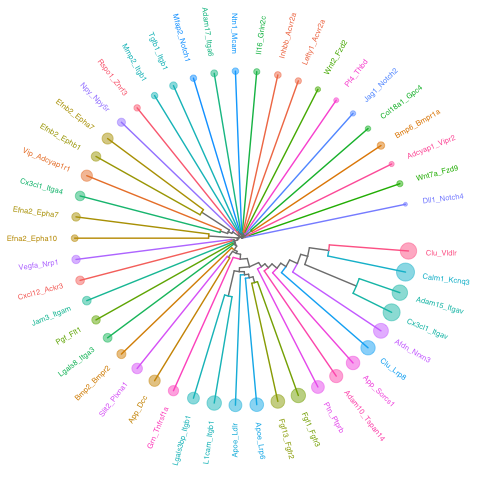
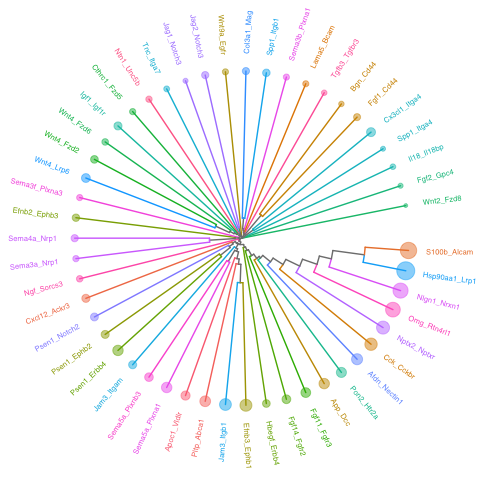
A few minor NAMESPACE issues resolved.

diff --git a/README.md b/README.md
@@ -30,19 +30,20 @@ This is a basic example which shows you a basic workflow of the package:
 ## Load necessary packages
 
 ``` r
-library(SpatialExperiment)
-library(scater)
-library(dplyr)
-library(tidyr)
-library(magrittr)
-library(purrr)
-library(ggplot2)
+# library(SpatialExperiment)
+# library(scater)
+# library(dplyr)
+# library(tidyr)
+# library(magrittr)
+# library(purrr)
+# library(ggplot2)
 library(patchwork)
 
+# Looks like ggraph might have some issue inmporting 'guide_edge_colourbar' 
 library(ggraph)
-library(tidygraph)
-library(RColorBrewer)
-
+# library(tidygraph)
+# library(RColorBrewer)
+# 
 library(ggtree)
 ```
 
@@ -74,20 +75,20 @@ LRdb_m <-
   get_LRdb_small("mouse")
 
 LRdb_m %>% 
-  arrange(ligand_gene_symbol, receptor_gene_symbol)
+  dplyr::arrange(ligand_gene_symbol, receptor_gene_symbol)
 #> # A tibble: 105 × 10
 #>    LR    ligand_gene_symbol receptor_gene_symbol ligand_gene_id receptor_gene_id
 #>    <chr> <chr>              <chr>                         <dbl>            <dbl>
-#>  1 Adam… Adam10             Tspan14                       11487            52588
-#>  2 Adam… Adam15             Itgav                         11490            16410
-#>  3 Adam… Adam17             Itga6                         11491            16403
-#>  4 Adcy… Adcyap1            Vipr2                         11516            22355
-#>  5 Adip… Adipoq             Adipor1                       11450            72674
-#>  6 Afdn… Afdn               Nrxn3                         17356            18191
-#>  7 Apob… Apob               Apobr                        238055           171504
-#>  8 Apob… Apob               Lsr                          238055            54135
-#>  9 Apoe… Apoe               Ldlr                          11816            16835
-#> 10 Apoe… Apoe               Lrp6                          11816            16974
+#>  1 Adam… Adam2              Itgb1                         11495            16412
+#>  2 Afdn… Afdn               Nectin1                       17356            58235
+#>  3 Agt_… Agt                Agtr1b                        11606            11608
+#>  4 Angp… Angpt2             Itgb1                         11601            16412
+#>  5 Angp… Angpt2             Tek                           11601            21687
+#>  6 Apoc… Apoc1              Vldlr                         11812            22359
+#>  7 Apoe… Apoe               Sdc1                          11816            20969
+#>  8 App_… App                Dcc                           11820            13176
+#>  9 App_… App                Lrp2                          11820            14725
+#> 10 Bgn_… Bgn                Cd44                          12111            12505
 #> # ℹ 95 more rows
 #> # ℹ 5 more variables: ligand_ensembl_protein_id <chr>,
 #> #   receptor_ensembl_protein_id <chr>, ligand_ensembl_gene_id <chr>,
@@ -107,7 +108,7 @@ spe_brain <-
 # spe_brain[["cell_id"]] <- colnames(spe_brain)
 
 # Log-Normalize
-spe_brain <- logNormCounts(spe_brain) 
+spe_brain <- scater::logNormCounts(spe_brain) 
 ```
 
 ## Cell cluster data
@@ -148,7 +149,7 @@ ccc_tbl <- compute_spatial_ccc(spe = spe_brain,
                                assay_name = "logcounts",
                                LRdb = LRdb_m)
 tictoc::toc()
-#> 7.039 sec elapsed
+#> 7.172 sec elapsed
 
 # future::plan(future::sequential)
 ```
@@ -156,20 +157,20 @@ tictoc::toc()
 ``` r
 ccc_tbl %>% 
   dplyr::arrange(desc(LRscore))
-#> # A tibble: 160,620 × 10
+#> # A tibble: 140,680 × 10
 #>    src          dst       d norm.d LR    ligand receptor LRscore weight WLRscore
 #>    <chr>        <chr> <dbl>  <dbl> <chr> <chr>  <chr>      <dbl>  <dbl>    <dbl>
-#>  1 GCGAGAGTTGC… GCGA…    0    0    Apoe… Apoe   Lrp6       0.874  1        0.874
-#>  2 GTTCATCGTTT… GCGA…  138    1.01 Apoe… Apoe   Lrp6       0.869  0.986    0.857
-#>  3 ACTTTACCCTC… GCGA…  138.   1.01 Apoe… Apoe   Lrp6       0.868  0.980    0.851
-#>  4 AGATGATGGAG… GCGA…  138.   1.01 Apoe… Apoe   Lrp6       0.867  0.980    0.849
-#>  5 GATATGGATTA… GATA…    0    0    Clu_… Clu    Lrp8       0.858  1        0.858
-#>  6 AGAAGTGATTC… AATG…  138    1.01 Calm… Calm1  Kcnq3      0.858  0.986    0.846
-#>  7 TTGCATGCTGA… GTGC…  138.   1.01 Calm… Calm1  Kcnq3      0.858  0.980    0.840
-#>  8 CCCAACATACG… GTGC…  138.   1.00 Calm… Calm1  Kcnq3      0.857  0.992    0.850
-#>  9 TAACTCCATGG… GACA…  137    1    Clu_… Clu    Vldlr      0.857  1        0.857
-#> 10 CGGTGCAGATA… GTGC…  138    1.01 Calm… Calm1  Kcnq3      0.857  0.986    0.845
-#> # ℹ 160,610 more rows
+#>  1 GACGTGTAGGG… CTAA…  138    1.01 Col3… Col3a1 Mag        0.866  0.986    0.853
+#>  2 GCAACAGCAGT… TCTT…  138.   1.01 Hsp9… Hsp90… Lrp1       0.859  0.980    0.842
+#>  3 GCCACAATTTA… TCGC…  138    1.01 Hsp9… Hsp90… Lrp1       0.856  0.986    0.844
+#>  4 TAGTGTCAGAA… GTTA…  138.   1.01 Hsp9… Hsp90… Lrp1       0.856  0.980    0.838
+#>  5 CAGTGTTAATC… CAGG…  137.   1.00 Hsp9… Hsp90… Lrp1       0.855  0.999    0.855
+#>  6 GCTGTATTACT… TCGC…  138.   1.00 Hsp9… Hsp90… Lrp1       0.854  0.992    0.847
+#>  7 TTGAGAGTACT… TCGC…  138.   1.01 Hsp9… Hsp90… Lrp1       0.854  0.980    0.837
+#>  8 GGGTATTCTAG… CAGA…  137    1    Hsp9… Hsp90… Lrp1       0.854  1        0.854
+#>  9 GAATGCCGAAA… GTTA…  138.   1.01 Hsp9… Hsp90… Lrp1       0.853  0.980    0.836
+#> 10 CACCGTATCCC… CACC…    0    0    Hsp9… Hsp90… Lrp1       0.853  1        0.853
+#> # ℹ 140,670 more rows
 ```
 
 ### Add cluster lables to CCC table.
@@ -186,51 +187,51 @@ ccc_tbl <-
 ``` r
 ccc_tbl_between_clusters <-
   ccc_tbl %>%
-  group_by(mclust_8.src, mclust_8.dst, LR) %>%
-  summarise(n = n(),
-            LRscore.sum = sum(LRscore),
-            WLRscore.sum = sum(WLRscore))
+  dplyr::group_by(mclust_8.src, mclust_8.dst, LR) %>%
+  dplyr::summarise(n = dplyr::n(),
+                   LRscore.sum = sum(LRscore),
+                   WLRscore.sum = sum(WLRscore))
 #> `summarise()` has grouped output by 'mclust_8.src', 'mclust_8.dst'. You can
 #> override using the `.groups` argument.
 
 ccc_tbl_between_clusters %>%
   dplyr::arrange(desc(n))
-#> # A tibble: 1,662 × 6
+#> # A tibble: 1,663 × 6
 #> # Groups:   mclust_8.src, mclust_8.dst [46]
-#>    mclust_8.src mclust_8.dst LR               n LRscore.sum WLRscore.sum
-#>    <fct>        <fct>        <chr>        <int>       <dbl>        <dbl>
-#>  1 3            3            Calm1_Kcnq3   2845       2183.        2159.
-#>  2 3            3            Fgf1_Fgfr3    2713       1786.        1766.
-#>  3 3            3            Clu_Vldlr     2489       1862.        1842.
-#>  4 3            3            Cx3cl1_Itgav  2470       1681.        1663.
-#>  5 3            3            L1cam_Itgb1   2262       1461.        1445.
-#>  6 3            3            Apoe_Ldlr     1953       1487.        1471.
-#>  7 3            3            Fgf13_Fgfr2   1908       1231.        1218.
-#>  8 3            3            Adam15_Itgav  1876       1164.        1151.
-#>  9 3            3            Afdn_Nrxn3    1820       1181.        1168.
-#> 10 2            2            Calm1_Kcnq3   1788       1424.        1408.
-#> # ℹ 1,652 more rows
+#>    mclust_8.src mclust_8.dst LR                n LRscore.sum WLRscore.sum
+#>    <fct>        <fct>        <chr>         <int>       <dbl>        <dbl>
+#>  1 3            3            Hsp90aa1_Lrp1  4494       3630.        3590.
+#>  2 3            3            S100b_Alcam    3535       2562.        2534.
+#>  3 3            3            Nlgn1_Nrxn1    2569       1780.        1761.
+#>  4 2            2            Hsp90aa1_Lrp1  2136       1728.        1708.
+#>  5 2            2            S100b_Alcam    1977       1449.        1432.
+#>  6 3            3            Omg_Rtn4rl1    1747       1123.        1111.
+#>  7 1            1            Hsp90aa1_Lrp1  1742       1411.        1396.
+#>  8 3            3            Efnb3_Ephb1    1662       1080.        1068.
+#>  9 3            3            Nptx2_Nptxr    1605       1057.        1045.
+#> 10 2            2            Nlgn1_Nrxn1    1555       1146.        1133.
+#> # ℹ 1,653 more rows
 ```
 
 ``` r
 ccc_tbl_between_clusters %>%
   dplyr::filter(mclust_8.dst != mclust_8.src) %>%
   dplyr::arrange(desc(n))
-#> # A tibble: 1,278 × 6
+#> # A tibble: 1,263 × 6
 #> # Groups:   mclust_8.src, mclust_8.dst [38]
-#>    mclust_8.src mclust_8.dst LR               n LRscore.sum WLRscore.sum
-#>    <fct>        <fct>        <chr>        <int>       <dbl>        <dbl>
-#>  1 3            5            Calm1_Kcnq3    259       203.         200. 
-#>  2 5            3            Calm1_Kcnq3    203       161.         159. 
-#>  3 3            5            Cx3cl1_Itgav   202       140.         138. 
-#>  4 3            5            Clu_Vldlr      181       138.         136. 
-#>  5 3            8            Fgf13_Fgfr2    159       113.         111. 
-#>  6 5            3            Afdn_Nrxn3     142        94.8         93.4
-#>  7 3            5            Apoe_Lrp6      141       107.         106. 
-#>  8 1            6            Calm1_Kcnq3    138       111.         110. 
-#>  9 3            8            Clu_Vldlr      132       103.         102. 
-#> 10 8            3            Calm1_Kcnq3    132       101.          99.6
-#> # ℹ 1,268 more rows
+#>    mclust_8.src mclust_8.dst LR                n LRscore.sum WLRscore.sum
+#>    <fct>        <fct>        <chr>         <int>       <dbl>        <dbl>
+#>  1 3            5            Hsp90aa1_Lrp1   306        245.         242.
+#>  2 5            3            Hsp90aa1_Lrp1   300        242.         238.
+#>  3 3            5            S100b_Alcam     250        177.         175.
+#>  4 8            3            Hsp90aa1_Lrp1   212        171.         169.
+#>  5 3            8            Hsp90aa1_Lrp1   199        159.         157.
+#>  6 5            3            S100b_Alcam     195        139.         137.
+#>  7 5            3            Nlgn1_Nrxn1     194        137.         135.
+#>  8 3            5            Omg_Rtn4rl1     172        119.         117.
+#>  9 1            6            Hsp90aa1_Lrp1   145        118.         116.
+#> 10 6            1            Hsp90aa1_Lrp1   145        117.         116.
+#> # ℹ 1,253 more rows
 ```
 
 ### Convert CCC table to CCC graph
@@ -246,7 +247,7 @@ ccc_graph_list <-
   to_spatial_ccc_graph_list(ccc_tbl, sp_col_data, workers = 6)
 
 tictoc::toc()
-#> to_spatical_ccc_graph ...: 11.539 sec elapsed
+#> to_spatical_ccc_graph ...: 14.087 sec elapsed
 ```
 
 summarize_ccc_graph_metrics() summarize those graph metrics for each LR
@@ -259,26 +260,26 @@ ccc_graph_metrics_summary_df <-
   summarize_ccc_graph_metrics(ccc_graph_list)
 
 tictoc::toc()
-#> 0.062 sec elapsed
+#> 0.074 sec elapsed
 ```
 
 ``` r
 ccc_graph_metrics_summary_df %>%
-  arrange(graph_component_count)
-#> # A tibble: 48 × 12
+  dplyr::arrange(graph_component_count)
+#> # A tibble: 50 × 12
 #>    LR        graph_n_nodes graph_n_edges graph_component_count graph_motif_count
 #>    <chr>             <int>         <dbl>                 <dbl>             <int>
-#>  1 Calm1_Kc…          2697         13616                     3             24463
-#>  2 Clu_Vldlr          2665         10624                     3             20955
-#>  3 Cx3cl1_I…          2617         11724                     4             21978
-#>  4 Adam15_I…          2388          9187                     4             17301
-#>  5 Afdn_Nrx…          2463          8262                     6             16000
-#>  6 Clu_Lrp8           2527          7510                     6             15497
-#>  7 L1cam_It…          2306          7682                     6             14856
-#>  8 Fgf1_Fgf…          2275          7569                     7             14148
-#>  9 Adam10_T…          2114          5924                     8             10890
-#> 10 Apoe_Lrp6          2497          6612                     9             13761
-#> # ℹ 38 more rows
+#>  1 Hsp90aa1…          2702         17454                     3             27855
+#>  2 Nlgn1_Nr…          2627         11042                     3             20957
+#>  3 S100b_Al…          2657         13613                     3             24055
+#>  4 Omg_Rtn4…          2475         10304                     6             18611
+#>  5 Nptx2_Np…          2326          7406                    12             14136
+#>  6 Efnb3_Ep…          2099          5832                    16             10830
+#>  7 Cck_Cckbr          1944          6384                    26             12316
+#>  8 Psen1_Er…          1794          3835                    30              6426
+#>  9 Afdn_Nec…          1900          4589                    31              8028
+#> 10 Jam3_Itg…          1988          5554                    35              9818
+#> # ℹ 40 more rows
 #> # ℹ 7 more variables: graph_diameter <dbl>, graph_un_diameter <dbl>,
 #> #   graph_mean_dist <dbl>, graph_circuit_rank <dbl>, graph_reciprocity <dbl>,
 #> #   graph_clique_num <int>, graph_clique_count <int>
@@ -294,25 +295,25 @@ ccc_graph_group_metrics_summary_df <-
   summarize_ccc_graph_metrics(ccc_graph_list, level = "group")
 
 tictoc::toc()
-#> 0.062 sec elapsed
+#> 0.076 sec elapsed
 ```
 
 ``` r
 ccc_graph_group_metrics_summary_df 
-#> # A tibble: 3,313 × 12
-#>    LR         group group_n_nodes group_n_edges group_adhesion group_motif_count
-#>    <chr>      <int>         <int>         <dbl>          <dbl>             <int>
-#>  1 Jag1_Notc…    24             3             2              0                 1
-#>  2 Jag1_Notc…    46             2             1              0                 0
-#>  3 Jag1_Notc…    47             2             1              0                 0
-#>  4 Jag1_Notc…    25             3             3              0                 1
-#>  5 Jag1_Notc…     1            13            23              0                19
-#>  6 Jag1_Notc…    48             2             1              0                 0
-#>  7 Jag1_Notc…    49             2             2              0                 0
-#>  8 Jag1_Notc…     7             5             5              0                 3
-#>  9 Jag1_Notc…    26             3             5              0                 1
-#> 10 Jag1_Notc…    90             1             1              0                 0
-#> # ℹ 3,303 more rows
+#> # A tibble: 4,056 × 12
+#>    LR        group group_n_nodes group_n_edges group_adhesion group_motif_count
+#>    <chr>     <int>         <int>         <dbl>          <dbl>             <int>
+#>  1 Tnc_Itga7    21             4             5              0                 3
+#>  2 Tnc_Itga7    48             2             2              0                 0
+#>  3 Tnc_Itga7     3            18            30              0                37
+#>  4 Tnc_Itga7     5            11            15              0                25
+#>  5 Tnc_Itga7     9             6             6              0                 5
+#>  6 Tnc_Itga7     2            25            38              0                55
+#>  7 Tnc_Itga7    31             3             2              0                 1
+#>  8 Tnc_Itga7    32             3             2              0                 1
+#>  9 Tnc_Itga7    33             3             3              0                 1
+#> 10 Tnc_Itga7    49             2             1              0                 0
+#> # ℹ 4,046 more rows
 #> # ℹ 6 more variables: group_diameter <dbl>, group_un_diameter <dbl>,
 #> #   group_mean_dist <dbl>, group_girth <dbl>, group_circuit_rank <dbl>,
 #> #   group_reciprocity <dbl>
@@ -326,8 +327,8 @@ LR_of_interest <- "App_Dcc"
 
 ``` r
 ccc_graph_list[[LR_of_interest]] %>%
-  activate(edges) %>%
-  as_tibble()
+  tidygraph::activate(edges) %>%
+  tibble::as_tibble()
 #> # A tibble: 3,822 × 40
 #>     from    to src       dst       d norm.d LR    ligand receptor LRscore weight
 #>    <int> <int> <chr>     <chr> <dbl>  <dbl> <chr> <chr>  <chr>      <dbl>  <dbl>
@@ -356,7 +357,7 @@ ccc_graph_list[[LR_of_interest]] %>%
 gp_spccc <-
   plot_spatial_ccc_graph(
     ccc_graph = ccc_graph_list[[LR_of_interest]],
-    tissue_img = imgRaster(spe_brain),
+    tissue_img = SpatialExperiment::imgRaster(spe_brain),
     node_color = "mclust_8",
     node_size = 1,
     node_alpha = 0.5,
@@ -480,7 +481,7 @@ Below uses “auto” layout (“kk” spring layout).
 
 ``` r
 plot_spatial_ccc_graph(ccc_graph = ccc_graph_list[[LR_of_interest]],
-                       # tissue_img = imgRaster(spe_brain),
+                       # tissue_img = SpatialExperiment::imgRaster(spe_brain),
                        node_color = "group",
                        node_size = 0.1,
                        edge_color = "group_diameter",
@@ -494,7 +495,7 @@ In this case, below is “stress” layout.
 
 ``` r
 plot_spatial_ccc_graph(ccc_graph = ccc_graph_list[[LR_of_interest]],
-                       # tissue_img = imgRaster(spe_brain),
+                       # tissue_img = SpatialExperiment::imgRaster(spe_brain),
                        graph_layout = "stress",
                        node_color = "group",
                        edge_color = "group_diameter",
@@ -513,7 +514,7 @@ cell_overlap_dist <-
   dist_cell_overlap_ccc_tbl(ccc_tbl)
 
 tictoc::toc()
-#> 0.422 sec elapsed
+#> 0.378 sec elapsed
 ```
 
 ``` r
@@ -523,7 +524,7 @@ cell_overlap_lf <-
   lf_cell_overlap_ccc_tbl(ccc_tbl)
 
 tictoc::toc()
-#> 0.503 sec elapsed
+#> 0.414 sec elapsed
 ```
 
 ``` r
@@ -546,7 +547,7 @@ high_cell_overlap_dist <-
   cell_overlap_dist[LRs_high_cell_overlap, LRs_high_cell_overlap]
 
 tictoc::toc()
-#> 0 sec elapsed
+#> 0.001 sec elapsed
 ```
 
 ``` r
@@ -559,21 +560,21 @@ high_cell_overlap_dist2 <-
   lf_to_dist()
 
 tictoc::toc()
-#> 0.007 sec elapsed
+#> 0.071 sec elapsed
 ```
 
 ``` r
 LR_ccc_summary_tbl <-
   ccc_tbl %>% 
-  pull(LR) %>%
+  dplyr::pull(LR) %>%
   table() %>%
-  as_tibble() %>%
-  rename("LR" = ".") %>%
-  arrange(desc(n)) %>%
-  left_join(
+  tibble::as_tibble() %>%
+  dplyr::rename("LR" = ".") %>%
+  dplyr::arrange(desc(n)) %>%
+  dplyr::left_join(
     ccc_tbl %>% 
-      select(LR, ligand, receptor) %>%
-      distinct(),
+      dplyr::select(LR, ligand, receptor) %>%
+      dplyr::distinct(),
     by = "LR"
   )
 ```
